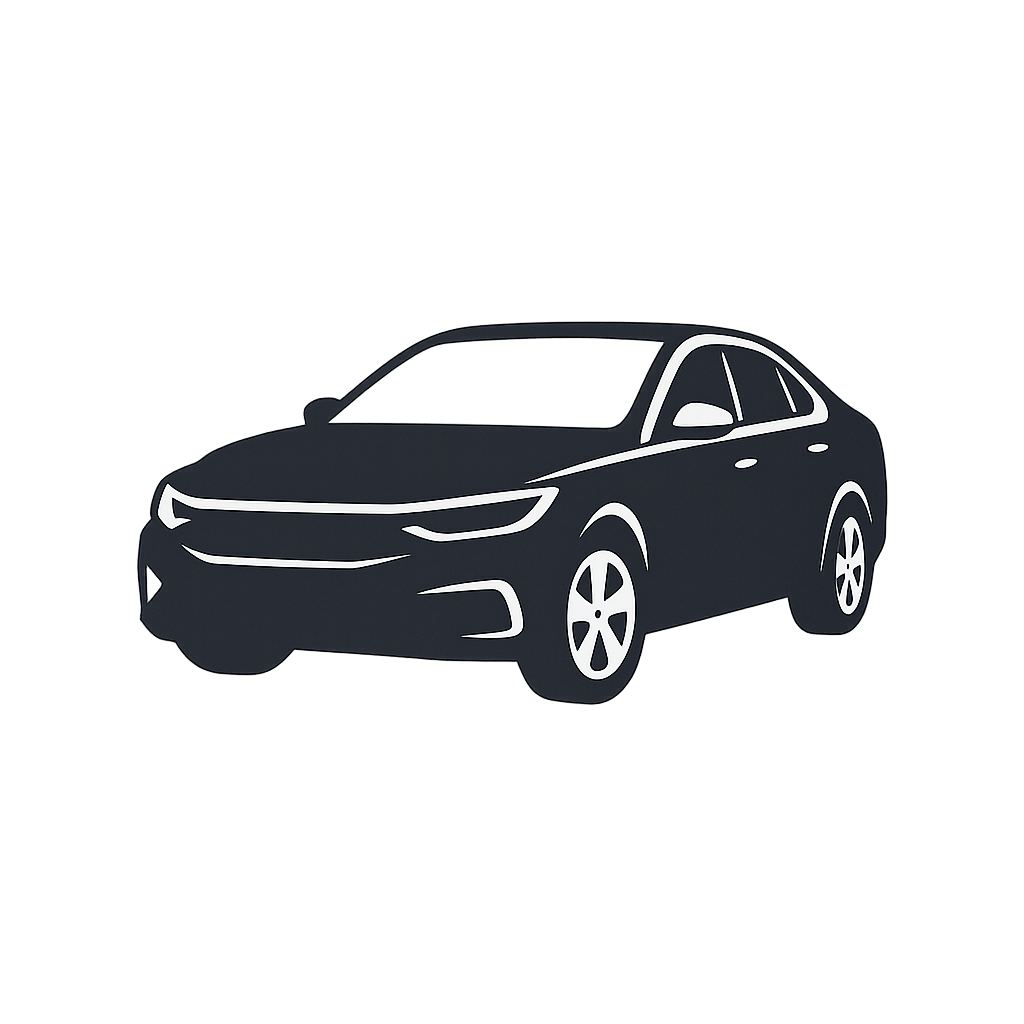
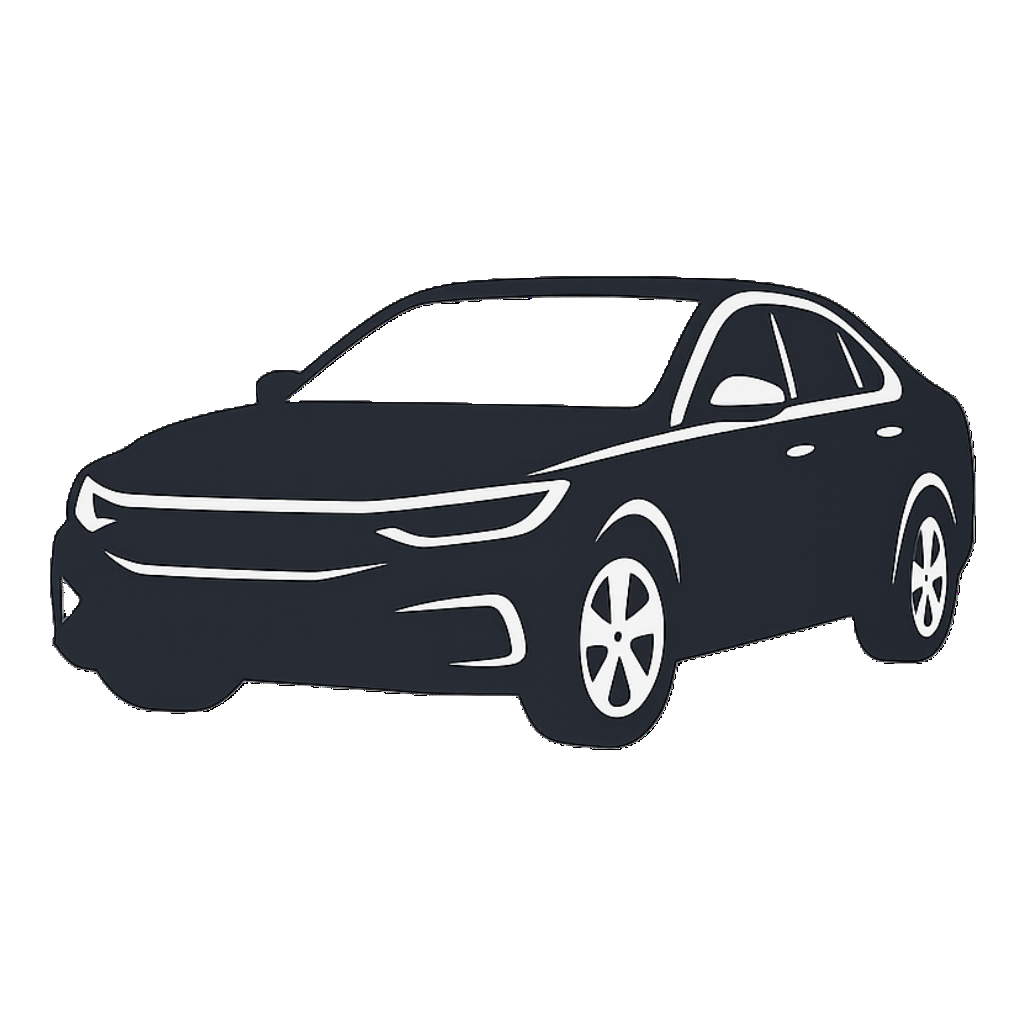
Updated styling for the home page and notifications

Changed region(s): [[0.0312, 0.25, 0.9688, 0.75]]

diff --git a/client/src/app/pages/home/home.component.ts b/client/src/app/pages/home/home.component.ts
@@ -1,31 +1,32 @@
 import { Component, OnInit } from '@angular/core';
 import { AuthService } from '../../services/auth.service';
-import { Router } from '@angular/router';
-import {HeaderComponent} from '../header/header.component';
 import {FooterComponent} from '../footer/footer.component';
+import {HeaderComponent} from '../header/header.component';
 
 @Component({
   selector: 'app-home',
   templateUrl: './home.component.html',
   imports: [
-    HeaderComponent,
-    FooterComponent
+    FooterComponent,
+    HeaderComponent
   ],
   styleUrls: ['./home.component.scss']
 })
 export class HomeComponent implements OnInit {
   username: string = '';
+  engineOn: boolean = false;
 
-  constructor(private authService: AuthService, private router: Router) {}
+  constructor(private authService: AuthService) {}
 
   ngOnInit(): void {
     this.authService.getProfile().subscribe({
       next: (data) => {
         this.username = data.username;
-      },
-      error: () => {
-        this.router.navigate(['/login']);
       }
     });
+  }
+
+  toggleEngine(): void {
+    this.engineOn = !this.engineOn;
   }
 }

diff --git a/client/src/app/pages/home/home.component.scss b/client/src/app/pages/home/home.component.scss
@@ -2,7 +2,6 @@
   display: flex;
   justify-content: center;
   align-items: center;
-  //height: calc(100vh - 120px); // Leaves space for header and footer
   background-color: #ffffff;
   overflow: hidden;
 }
@@ -34,19 +33,40 @@
   height: fit-content;
   margin-bottom: 0;
   margin-top: 0;
+  transition: box-shadow 0.3s ease, transform 0.3s ease;
+}
+
+.car-image.active {
+  box-shadow: 0 0 25px 5px rgba(0, 255, 0, 0.5);
+  animation: shake 0.3s infinite alternate;
+}
+
+@keyframes shake {
+  from { transform: translateX(-2px); }
+  to { transform: translateX(2px); }
 }
 
 .start-button {
-  background: none;
+  background-color: #ccc;
   border: none;
-  padding: 0;
+  border-radius: 50%;
+  width: 100px;
+  height: 100px;
   margin: 0.1rem 0 0.7rem;
   cursor: pointer;
+  display: flex;
+  justify-content: center;
+  align-items: center;
+  transition: background-color 0.3s ease;
+
+  &.active {
+    background-color: #007bff;
+  }
 
   img {
-    width: 100px;
-    height: 100px;
-    object-fit: contain;
+    width: 60%;
+    height: 60%;
+    //object-fit: contain;
   }
 
   &:hover {

diff --git a/client/src/app/pages/home/home.component.html b/client/src/app/pages/home/home.component.html
@@ -4,9 +4,18 @@
   <div class="home-wrapper">
     <h2 class="welcome-text">Welcome back,<br />{{ username }}</h2>
 
-    <img src="images/car.png" alt="Car image" class="car-image" />
+    <img
+      src="images/car.png"
+      alt="Car image"
+      [class.active]="engineOn"
+      class="car-image"
+    />
 
-    <button class="start-button">
+    <button
+      class="start-button"
+      [class.active]="engineOn"
+      (click)="toggleEngine()"
+    >
       <img src="images/start_button.png" alt="Power Icon" class="power-icon" />
     </button>
 

diff --git a/client/src/app/pages/notifications/notifications.component.scss b/client/src/app/pages/notifications/notifications.component.scss
@@ -3,6 +3,9 @@
   margin: 0 auto;
   padding: 1rem;
   box-sizing: border-box;
+  height: 590px;
+  background-color: #f4f4f4;
+;
 }
 
 .filter-bar {
